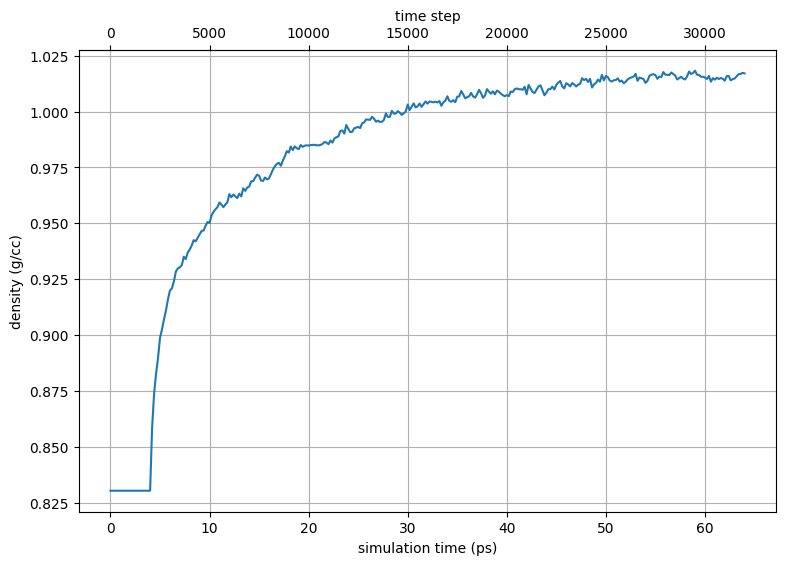
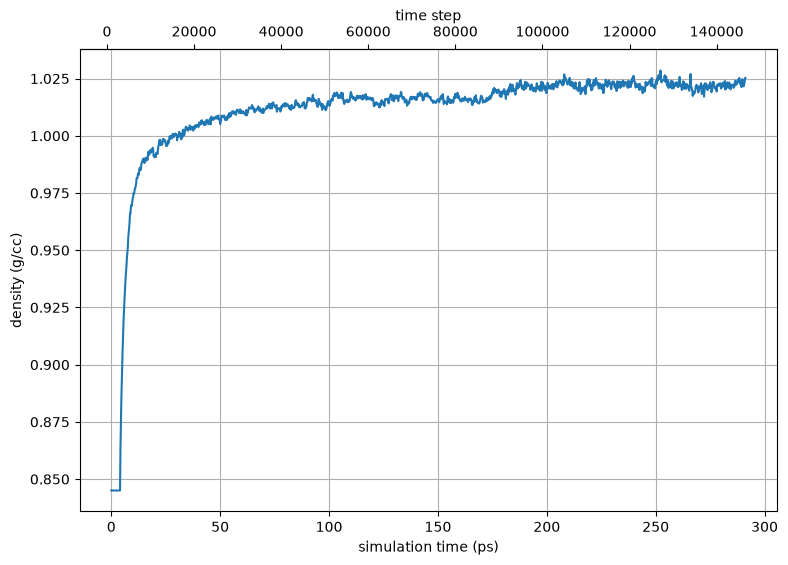
docs(ex16): refresh figures from a clean run and drop the retired NPT ladder
Figures come from the clean example-16 run of the 2026-08-11 sweep, replacing ones built
before the solvate-chamber and membrane_equilibrate work.

The prose described the post-embed equilibration as "a series of md tasks to progressively
equilibrate the system density and the bilayer area" -- the hand-tuned ladder this example no
longer uses. It is now a single self-terminating membrane_equilibrate that chunks NPgT and
stops when density and lateral area have both converged. The lattice description also gains
the orthohexagonal detail and the solvate-filled water chambers, neither of which the page
mentioned.

Adds the two membrane_equilibrate convergence plots (quilt and post-embed), which show the
two-stage protocol directly: area pinned while density settles, then relaxing tensionless with
area per lipid on the right-hand axis. The quilt one also makes the reason for pre-equilibrating
the bilayer visible, rather than leaving a large post-embed condensation to the final stage.

Regenerates 16-density-profile.png from the fresh production system.

sphinx-build emits zero non-autodoc warnings; all 9 figures resolve on the rendered page.

diff --git a/docs/source/examples/16/hiv-mpertm3-membrane1.rst b/docs/source/examples/16/hiv-mpertm3-membrane1.rst
@@ -15,9 +15,9 @@ Example 16: HIV-1 Env MPER-TM Trimer in a DMPC Symmetric Bilayer
 
 .. task-table:: ../../../../pestifer/resources/examples/16/inputs/hiv-mpertm3-membrane1.yaml
 
-The bilayer is built by placing lipids on a lattice directly.  For a symmetric bilayer it grids the full membrane in one shot, sized to the embedded protein's footprint plus the ``embed.xydist`` margin -- there is no separate patch-packing step.
+The bilayer is built by placing lipids on a lattice directly -- an *orthohexagonal* one, so each lipid has six equidistant neighbors rather than the closer diagonal contacts of a square lattice.  For a symmetric bilayer it grids the full membrane in one shot, sized to the embedded protein's footprint plus the ``embed.xydist`` margin -- there is no separate patch-packing step, and no calibration patches, because both leaflets share a composition.  The water chambers above and below the bilayer are filled by a ``solvate`` step at true liquid density rather than tiled on a lattice.
 
-The key task in this example is the ``make_membrane_system`` task.  This task specifies a ``bilayer`` subtask and an ``embed`` subtask.  The ``bilayer`` subtask specifies the composition of the two leaflets and a ``quilt`` relaxation protocol that relaxes the gridded membrane prior to embedding the protein (the ``patch`` protocol is only used for asymmetric builds, which calibrate per-leaflet patches first -- see :ref:`example mper-tm viral bilayer`).  The ``embed`` subtask specifies how the protein is to be oriented and placed in the bilayer.  Immediately following the ``make_membrane_system`` task, the ``minimize`` task is used to relax the system after embedding the protein.  This is then followed by a series of ``md`` tasks to progressively equilibrate the system density and the bilayer area.
+The key task in this example is the ``make_membrane_system`` task.  This task specifies a ``bilayer`` subtask and an ``embed`` subtask.  The ``bilayer`` subtask specifies the composition of the two leaflets and a ``quilt`` relaxation protocol that relaxes the gridded membrane prior to embedding the protein (the ``patch`` protocol is only used for asymmetric builds, which calibrate per-leaflet patches first -- see :ref:`example mper-tm viral bilayer`).  The ``embed`` subtask specifies how the protein is to be oriented and placed in the bilayer.  Immediately following the ``make_membrane_system`` task, a ``minimize`` and a short warm ``NVT`` pass fluidize the lipids around the freshly-embedded protein.  The barostatted equilibration that follows is a single self-terminating :ref:`membrane_equilibrate <subs_buildtasks_membrane_equilibrate>` task rather than the hand-tuned ladder of progressively longer NPT/NPgT runs this example used to carry: it runs NPgT in stability-bounded chunks and stops when the box density *and* the lateral area have both converged.
 
 A detailed explanation of the two subtasks can be found at :ref:`subs_buildtasks_make_membrane_system`.
 
@@ -34,6 +34,10 @@ The plots below are generated by default during the membrane-building process.
 
            System density vs time step during the ``quilt`` relaxation of the gridded membrane, rising to the expected hydrated value of roughly 1.0 g/cc as the box condenses.
 
+.. figure:: 16-quilt-membrane.png
+
+           Density and lateral area vs time step for the quilt's ``membrane_equilibrate`` stage.  Stage 1 settles the density with the lateral area held fixed, so the under-dense box loses its excess volume from :math:`z` alone; at the hand-off (dashed line) the barostat goes tensionless and the area relaxes to its preferred value, shown as area per lipid on the right-hand axis.  Pre-equilibrating the bilayer this way, rather than minimizing only, is what keeps the assembled system near density equilibrium instead of leaving a large post-embed condensation to the final stage.
+
 The ``mdplot`` task generated the following plots for the membrane-embedded system.
 
 .. figure:: 16-bilayer-a_x-b_y-c_z.png
@@ -47,6 +51,10 @@ The ``mdplot`` task generated the following plots for the membrane-embedded syst
 .. figure:: 16-bilayer-pressureprofile.png
 
            Pressure profiles for selected time intervals during the protein-embedded membrane relaxation.
+
+.. figure:: 16-postembed-membrane.png
+
+           Density and lateral area for the post-embed ``membrane_equilibrate``, which condenses out the voids left around the newly-embedded protein and stops when both observables are stationary rather than at a fixed step count.
 
 The ``density-profile`` subcommand produces a species-resolved mass-density profile along the bilayer normal from the equilibrated final frame.  Water is cleanly excluded from the hydrophobic core, the lipid shows the characteristic headgroup peaks and a terminal-methyl trough at the midplane, and the membrane-spanning protein appears at low density across the bilayer.
 
